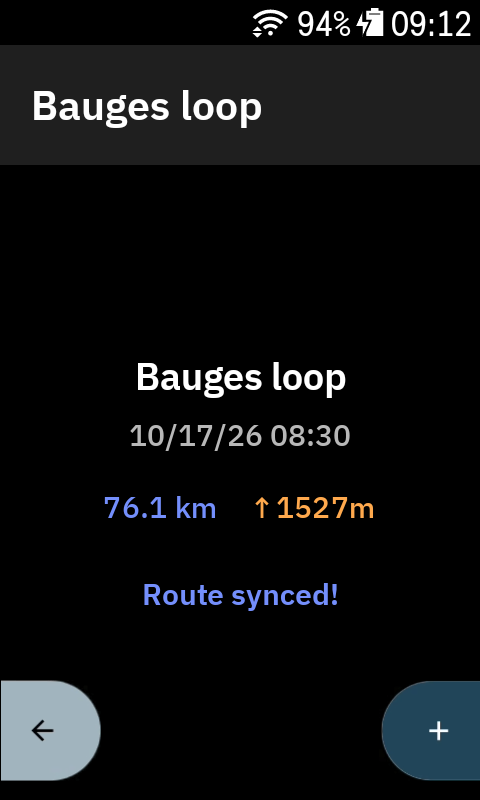
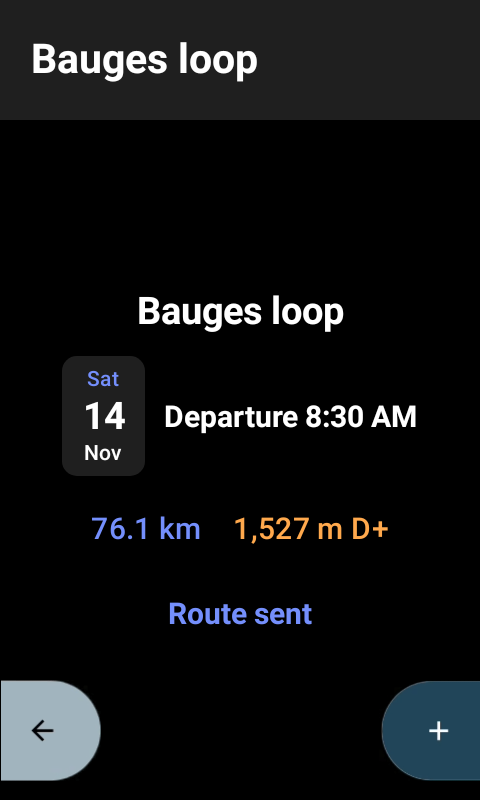
chore(karoo): captures de la fiche rendues depuis les vrais écrans, notes de version 1.0.15
Les captures publiées avec chaque release (karoo/metadata/screenshots)
dataient d'octobre, prises à la main sur l'appareil : la 1.0.14 est sortie
avec les écrans d'avant (« 10/17/26 08:30 », « ↑1527m », « Route synced! »).
StoreScreenshotsTest les rend maintenant depuis les vrais écrans, sur les
mêmes données de démonstration, et les compare comme les autres captures de
référence : un changement visuel échoue tant qu'elles ne sont pas refaites.
Nouvelle capture en tête, next-rides.png ; qrcode.png reste celle de
l'appareil.

diff --git a/karoo/app/src/test/kotlin/fr/pedalons/karoo/screenshots/StoreScreenshotsTest.kt b/karoo/app/src/test/kotlin/fr/pedalons/karoo/screenshots/StoreScreenshotsTest.kt
@@ -1,0 +1,222 @@
+package fr.pedalons.karoo.screenshots
+
+import android.provider.Settings
+import androidx.compose.foundation.layout.fillMaxSize
+import androidx.compose.foundation.lazy.rememberLazyListState
+import androidx.compose.material3.MaterialTheme
+import androidx.compose.material3.Surface
+import androidx.compose.runtime.Composable
+import androidx.compose.ui.Modifier
+import androidx.compose.ui.test.junit4.v2.createComposeRule
+import androidx.compose.ui.test.onRoot
+import androidx.test.core.app.ApplicationProvider
+import com.github.takahirom.roborazzi.RoborazziOptions
+import com.github.takahirom.roborazzi.captureRoboImage
+import fr.pedalons.karoo.api.DeviceRegisteredGroup
+import fr.pedalons.karoo.api.DeviceRegisteredStage
+import fr.pedalons.karoo.api.DeviceRide
+import fr.pedalons.karoo.api.DeviceRideEntry
+import fr.pedalons.karoo.api.DeviceRoute
+import fr.pedalons.karoo.api.DeviceRouteSyncStatus
+import fr.pedalons.karoo.browse.NavState
+import fr.pedalons.karoo.browse.SyncState
+import fr.pedalons.karoo.browse.ui.RegisteredGroupListScreen
+import fr.pedalons.karoo.browse.ui.RideEntriesScreen
+import fr.pedalons.karoo.browse.ui.RouteDetailScreen
+import fr.pedalons.karoo.browse.ui.StandaloneRouteListScreen
+import fr.pedalons.karoo.support.TEST_NOW
+import fr.pedalons.karoo.ui.FormatClock
+import fr.pedalons.karoo.ui.theme.PedalonsKarooTheme
+import java.time.Instant
+import java.util.Locale
+import java.util.TimeZone
+import org.junit.After
+import org.junit.Before
+import org.junit.Rule
+import org.junit.Test
+import org.junit.runner.RunWith
+import org.robolectric.RobolectricTestRunner
+import org.robolectric.annotation.Config
+
+/**
+ * The screenshots of the extension's listing (`karoo/metadata/screenshots/`, published with every
+ * release and listed in `metadata/app.json`): the real screens on demo data, at the Karoo's own
+ * 480x800. Rendered here rather than taken on a device so that they follow the app — they are
+ * goldens like the others: a visual change fails `verifyRoborazziDebug` until they are re-recorded
+ * (`recordRoborazziDebug`), and a release can no longer ship the screens of the version before.
+ *
+ * `qrcode.png` is not here: the sign-in screen is still the device capture of October 2026.
+ */
+@RunWith(RobolectricTestRunner::class)
+@Config(qualifiers = "en-w256dp-h427dp-300dpi")
+class StoreScreenshotsTest {
+
+    @get:Rule val compose = createComposeRule()
+
+    private lateinit var savedZone: TimeZone
+    private lateinit var savedLocale: Locale
+    private val context = ApplicationProvider.getApplicationContext<android.content.Context>()
+
+    @Before
+    fun freeze() {
+        savedZone = TimeZone.getDefault()
+        savedLocale = Locale.getDefault()
+        TimeZone.setDefault(TimeZone.getTimeZone("Europe/Paris"))
+        Locale.setDefault(Locale.ENGLISH)
+        Settings.System.putString(context.contentResolver, Settings.System.TIME_12_24, "24")
+        FormatClock.now = { Instant.parse(TEST_NOW) }
+    }
+
+    @After
+    fun unfreeze() {
+        TimeZone.setDefault(savedZone)
+        Locale.setDefault(savedLocale)
+        FormatClock.now = Instant::now
+    }
+
+    private val options =
+        RoborazziOptions(compareOptions = RoborazziOptions.CompareOptions(changeThreshold = 0f))
+
+    private fun shot(name: String, content: @Composable () -> Unit) {
+        compose.mainClock.autoAdvance = false
+        compose.setContent {
+            PedalonsKarooTheme {
+                Surface(
+                    modifier = Modifier.fillMaxSize(),
+                    color = MaterialTheme.colorScheme.background,
+                ) {
+                    content()
+                }
+            }
+        }
+        // The working directory of the module's tests is karoo/app.
+        compose.onRoot().captureRoboImage("../metadata/screenshots/$name.png", options)
+    }
+
+    private fun sent() = listOf(DeviceRouteSyncStatus("HAMMERHEAD", "SENT"))
+
+    // « Now » is Wednesday 11 November 2026: Thursday's ride is « Tomorrow ».
+    private val nextRides =
+        listOf(
+            DeviceRegisteredGroup(
+                teamSlug = "annecy",
+                rideSlug = "thursday",
+                rideName = "Thursday ride",
+                groupName = "B",
+                routeSlug = "semnoz",
+                routeName = "Semnoz and Col de Leschaux",
+                distance = 52_400f,
+                elevationGain = 1304f,
+                startDateTime = "2026-11-12T17:00:00Z",
+                timezone = "Europe/Paris",
+                syncStatuses = sent(),
+                teamName = "Annecy Cycling",
+                startPlaceName = "Town hall",
+                status = "PUBLISHED",
+                endDateTime = "2026-11-12T19:30:00Z",
+            ),
+            DeviceRegisteredStage(
+                teamSlug = "annecy",
+                tripSlug = "beaufortain",
+                tripName = "Beaufortain weekend",
+                stageName = "Stage 1",
+                routeSlug = "annecy-beaufort",
+                routeName = "Annecy to Beaufort",
+                distance = 65_500f,
+                elevationGain = 806f,
+                startDateTime = "2026-11-14T07:30:00Z",
+                timezone = "Europe/Paris",
+                startPlaceName = "Annecy",
+                endPlaceName = "Beaufort",
+                syncStatuses = emptyList(),
+                teamName = "Annecy Cycling",
+                status = "PUBLISHED",
+                endDateTime = "2026-11-14T11:30:00Z",
+            ),
+            DeviceRegisteredStage(
+                teamSlug = "annecy",
+                tripSlug = "beaufortain",
+                tripName = "Beaufortain weekend",
+                stageName = "Stage 2",
+                routeSlug = "cormet",
+                routeName = "Beaufort to Cormet de Roselend",
+                distance = 41_900f,
+                elevationGain = 1425f,
+                startDateTime = "2026-11-15T08:00:00Z",
+                timezone = "Europe/Paris",
+                startPlaceName = "Beaufort",
+                endPlaceName = "Cormet de Roselend",
+                syncStatuses = emptyList(),
+                teamName = "Annecy Cycling",
+                status = "PUBLISHED",
+                endDateTime = "2026-11-15T11:30:00Z",
+            ),
+        )
+
+    private fun entry(slug: String, name: String, group: String?, start: String) =
+        DeviceRideEntry(slug, name, group, 76_100f, 1527f, null, null, start)
+
+    private val saturdayRide =
+        DeviceRide(
+            "annecy",
+            "saturday",
+            "Saturday ride: Bauges loop",
+            "2026-11-14T07:30:00Z",
+            listOf(
+                entry("bauges", "Bauges loop", null, "2026-11-14T07:30:00Z"),
+                entry("bauges", "Bauges loop", "Fast group", "2026-11-14T07:30:00Z"),
+                entry("bauges", "Bauges loop", "Intermediate group", "2026-11-14T07:45:00Z"),
+                entry("bauges", "Bauges loop", "Recovery group", "2026-11-14T07:45:00Z"),
+            ),
+            "Europe/Paris",
+        )
+
+    private val routes =
+        listOf(
+            DeviceRoute("annecy", "cormet", "Beaufort to Cormet de Roselend", 41_900f, 1425f),
+            DeviceRoute("annecy", "annecy-beaufort", "Annecy to Beaufort", 65_500f, 806f),
+            DeviceRoute("annecy", "glieres", "Glières plateau gravel", 28_400f, 1059f),
+            DeviceRoute("annecy", "bauges", "Bauges loop", 76_100f, 1527f),
+            DeviceRoute("annecy", "semnoz", "Semnoz and Col de Leschaux", 52_400f, 1304f),
+        )
+
+    @Test
+    fun nextRides() =
+        shot("next-rides") {
+            RegisteredGroupListScreen(
+                nextRides,
+                null,
+                0,
+                rememberLazyListState(),
+                SyncState.IDLE,
+                null,
+                emptySet(),
+                { _, _ -> },
+                {},
+            )
+        }
+
+    @Test
+    fun ride() =
+        shot("ride") {
+            RideEntriesScreen(saturdayRide, null, 0, rememberLazyListState(), {}, {})
+        }
+
+    @Test
+    fun routes() =
+        shot("routes") {
+            StandaloneRouteListScreen(routes, null, 0, rememberLazyListState(), {}, {})
+        }
+
+    @Test
+    fun downloaded() =
+        shot("downloaded") {
+            RouteDetailScreen(
+                NavState.RouteDetail.of(saturdayRide, saturdayRide.entries[0]),
+                null,
+                SyncState.SUCCESS,
+                {},
+                {},
+            )
+        }
+}

diff --git a/karoo/CLAUDE.md b/karoo/CLAUDE.md
@@ -217,6 +217,7 @@ through one command, which is also the end of `check.sh` and the karoo job of `c
 | Plain JVM | `browse/BrowseStateTest`, `browse/MainUiStateTest`, `browse/MainViewModelTest`, `browse/RouteDetailFactoryTest`, `auth/SessionTest`, `auth/DeviceCodeLoginTest`, `auth/HammerheadLinkWatcherTest`, `auth/TokenExpiryTest`, `data/PedalonsRepositoryTest` (with `support/FakeTokenStore`, `support/TestClock`) | reducer, screen precedence, startup/sign-in sequence (one session per sign-in), single-flight refresh, RFC 8628 loop, repository result mapping |
 | Behaviour | `StartupAndAuthFlowTest`, `NavigationTest`, `SyncTest`, `auth/*ActivityTest` | the real activities driven by the Karoo keys and touch against a `FakeBackend`: texts shown, HTTP requests made, tokens stored, activities started |
 | Pixels | `screenshots/ScreenshotCases` (run in `en` and `fr`) | every screen on 480x800 px at 300 dpi (the Karoo's own `wm size` / `wm density`), Android 12 |
+| Listing | `screenshots/StoreScreenshotsTest` | the screenshots published with a release (`metadata/screenshots/`, all but `qrcode.png`): the real screens on demo data, goldens too — a visual change fails until they are re-recorded |
 
 - Behaviour tests go through `MainActivity` / `AuthActivity` / `GpsConnectActivity` and the
   `support/` helpers (`AppTestBase`, `FakeBackend`, `ShadowKarooSystemService`), never through

diff --git a/karoo/PUBLISH.md b/karoo/PUBLISH.md
@@ -22,8 +22,10 @@ so the description in `app.json` is bilingual the same way.
 The workflow publishes `pedalons.apk`, `pedalons.png` and `manifest.json` — karoo-ext's
 [`KarooAppManifest`](https://github.com/hammerheadnav/karoo-ext/blob/master/lib/src/main/kotlin/io/hammerhead/karooext/models/KarooAppManifest.kt),
 built from `karoo/metadata/app.json` (label, description, tags…) plus the version, the notes and
-URLs pinned to the tag. Screenshots (480×800, taken on the device) live in
-`karoo/metadata/screenshots/`; only those listed in `app.json`'s `screenshots`, in that order, are
+URLs pinned to the tag. Screenshots (480×800) live in
+`karoo/metadata/screenshots/`: all but `qrcode.png` are rendered from the real screens on demo data
+by `StoreScreenshotsTest` (`./gradlew recordRoborazziDebug`) and checked like the other goldens, so
+a release cannot ship the screens of the version before; `qrcode.png` is a device capture; only those listed in `app.json`'s `screenshots`, in that order, are
 published — the first one is what the store listing shows first. Karoo offers an update when the manifest's `latestVersionCode` exceeds the
 installed one (`MAJOR*10000 + MINOR*100 + PATCH`, from the tag).
 
